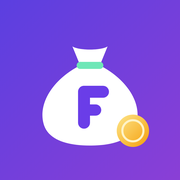
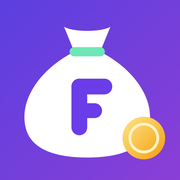
Inicio sin Plata virtual y Efectivo repetidos; bolsa más grande en el icono. Versión 3.23.3

Changed region(s): [[0.1111, 0.1389, 0.9444, 0.8889]]

diff --git a/js/pantallas/fran.js b/js/pantallas/fran.js
@@ -537,10 +537,6 @@ function renderPrincipal(contenedor, ctx) {
     ${avisoAnotar ? renglon({ ruta: '#/libro/personal/agregar/gasto', icono: '📝', texto: 'Hoy no has anotado nada' }, ui) : ''}
     <div class="fran-libros">${['personal', 'prestamos', 'pension', 'productos'].map((id) => tarjetaLibro(id, false)).join('')}</div>
     <div class="fran-libros-chicos">${['arriendos', 'redes', 'terceros'].map((id) => tarjetaLibro(id, true)).join('')}</div>
-    <div class="fran-libros-dos">
-      <a href="#/virtual" class="fran-libro fran-libro--chica"><span class="fran-cuadro fran-cuadro--40" aria-hidden="true">📲</span><small>Plata virtual</small><span class="fran-libro__valor">${fran.virtualPorDefinir ? 'por confirmar' : conSigno(plata.virtual, dinero)}</span></a>
-      <a href="#/caja" class="fran-libro fran-libro--chica"><span class="fran-cuadro fran-cuadro--40" aria-hidden="true">💵</span><small>Efectivo y caja</small><span class="fran-libro__valor">${conSigno(plata.efectivo, dinero)}</span></a>
-    </div>
   </div>`);
   principal.querySelector('[data-apariencia]').addEventListener('click', () => abrirApariencia(''));
   // Sol y luna: en oscuro se ve el sol (para pasar a claro); en claro, la luna.

diff --git a/index.html b/index.html
@@ -16,7 +16,7 @@
   <meta name="apple-mobile-web-app-title" content="Fran">
   <link rel="icon" href="iconos/icono.svg" type="image/svg+xml">
   <link rel="icon" href="iconos/icono-192.png" type="image/png" sizes="192x192">
-  <link rel="apple-touch-icon" sizes="180x180" href="iconos/icono-180.png">
+  <link rel="apple-touch-icon" sizes="180x180" href="iconos/icono-180.png?v=2">
 
   <!-- Estilos base y de cada pantalla -->
   <link rel="stylesheet" href="css/estilos.css">

diff --git a/sw.js b/sw.js
@@ -5,7 +5,7 @@
   Al cambiar VERSION se crea un caché nuevo y se borran los viejos al activar.
 */
 
-const VERSION = '3.23.2';
+const VERSION = '3.23.3';
 const NOMBRE_CACHE = `mis-prestamos-v${VERSION}`;
 
 // Lista fija de todo lo que compone la app (incluye archivos de pantallas aunque

diff --git a/js/app.js b/js/app.js
@@ -11,7 +11,7 @@
 
 import * as ui from './ui.js';
 
-const VERSION_APP = '3.23.2';
+const VERSION_APP = '3.23.3';
 const contenedor = document.getElementById('pantalla');
 
 // ---------- Rutas (sección 7 de la especificación) ----------
